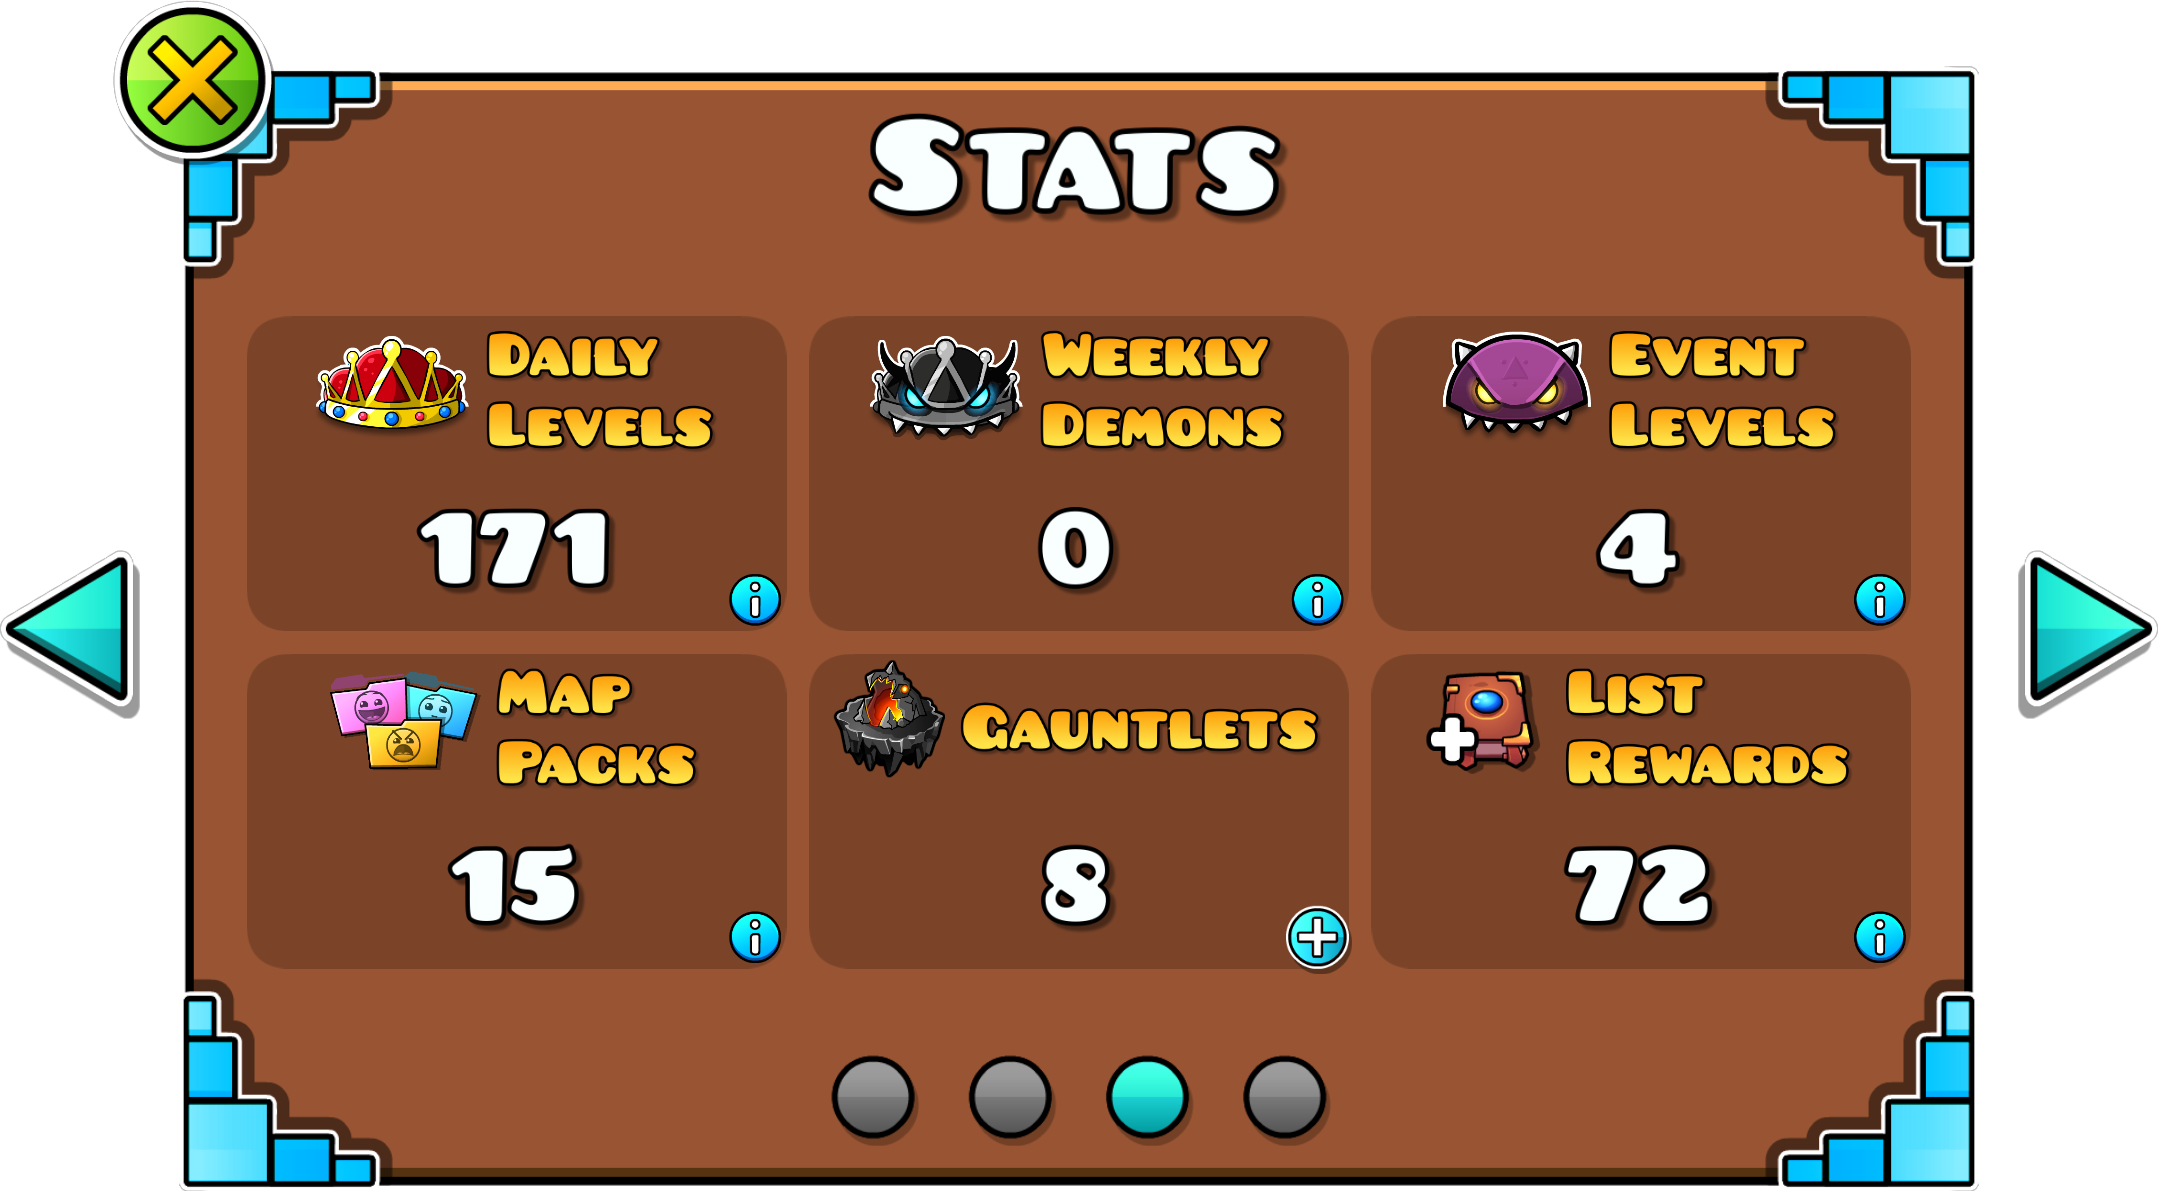
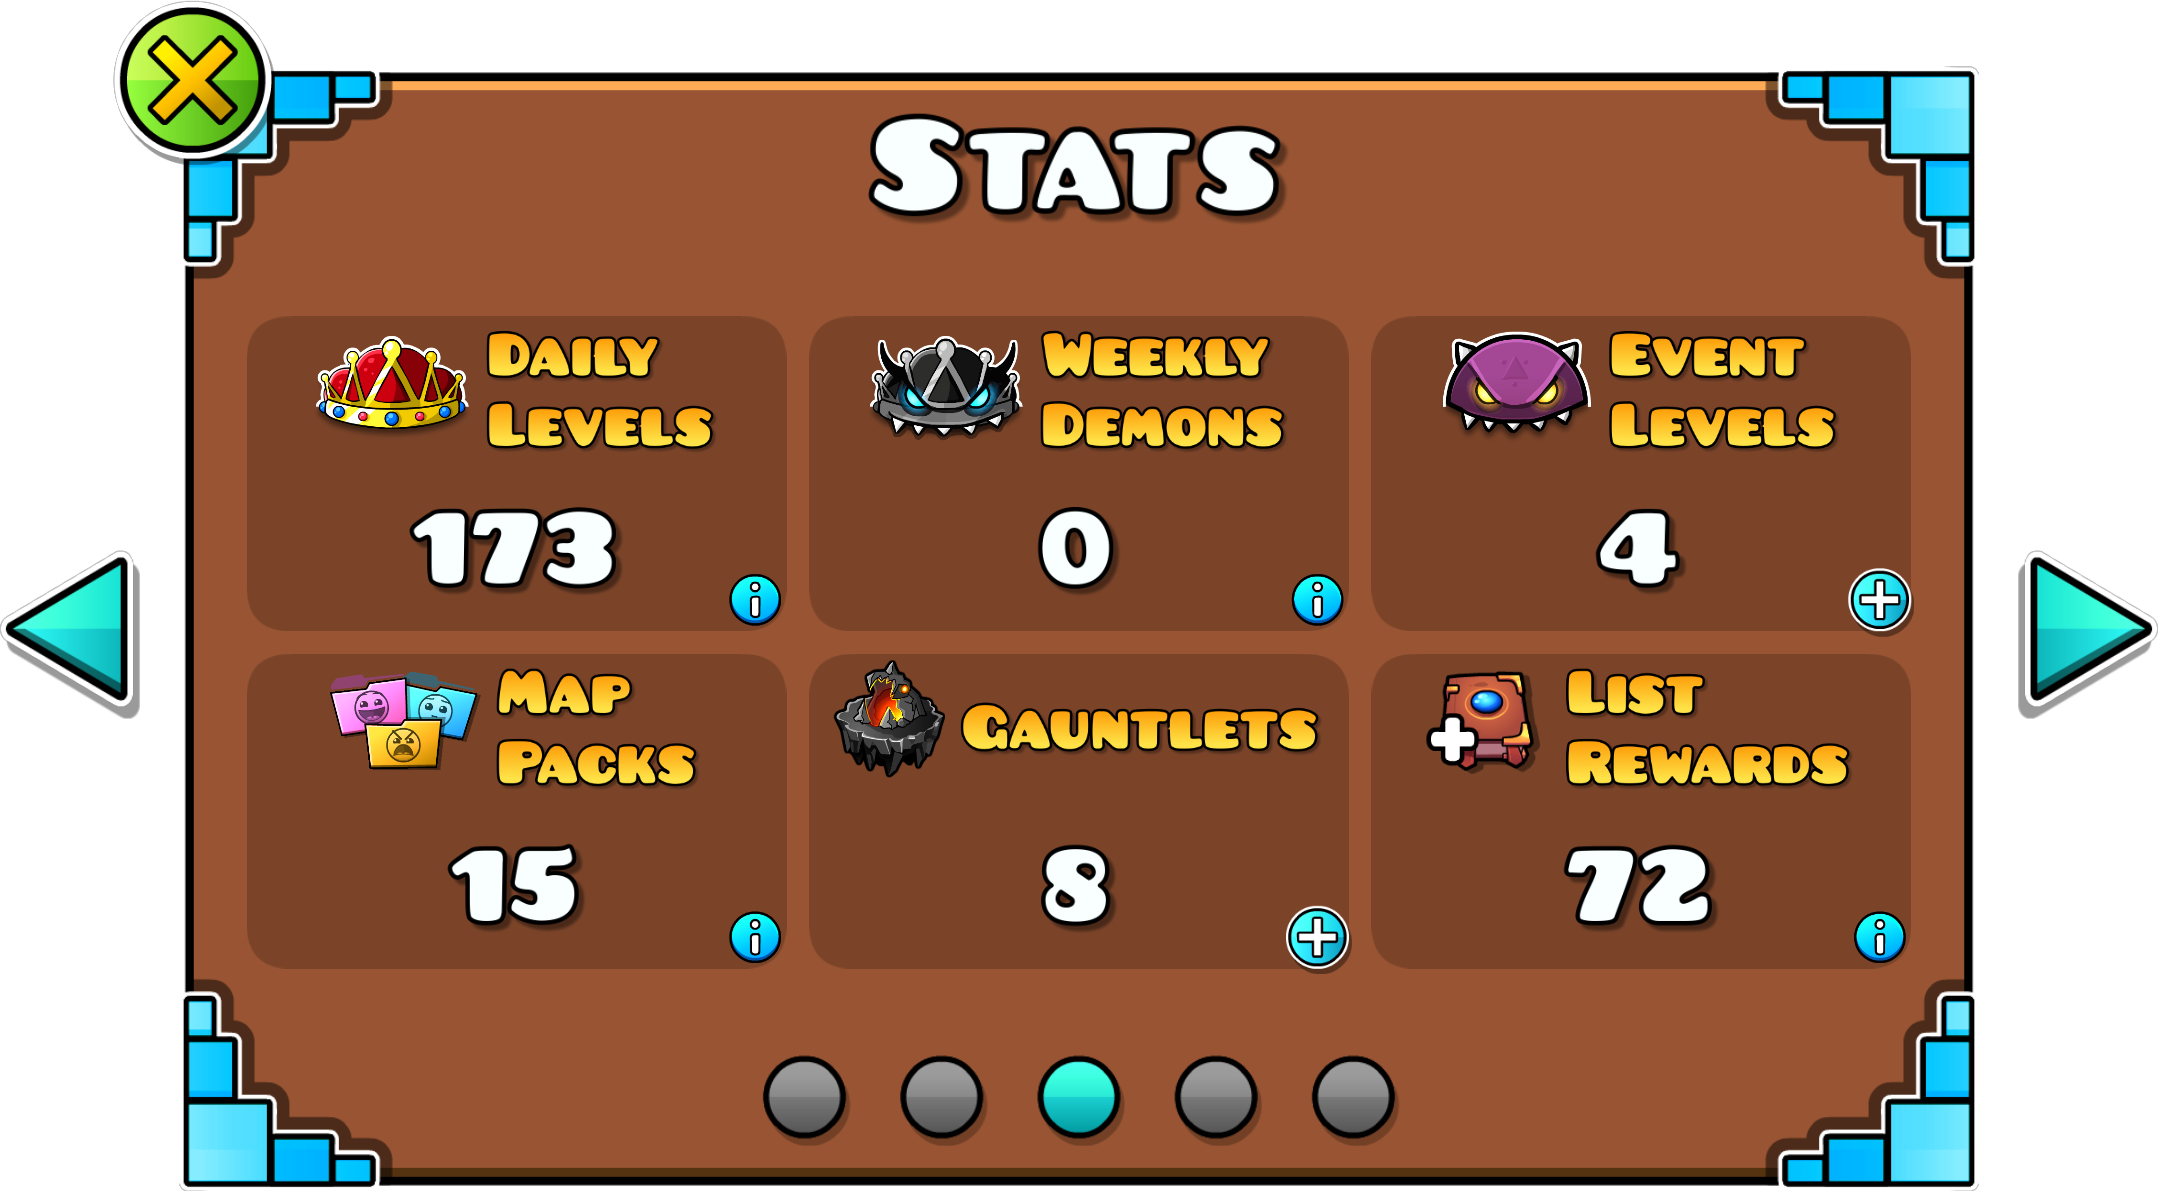
New extra stat and other changes

Changed region(s): [[0.3415, 0.8699, 0.652, 0.9631], [0.1863, 0.4039, 0.3105, 0.4971], [0.8383, 0.466, 0.9004, 0.5281]]

diff --git a/src/main.cpp b/src/main.cpp
@@ -125,15 +125,29 @@ public:
 				otherLevels, otherCount
 			));
 		} else if (stat == "12") { // User Coins
-			statDesc.append(fmt::format("\n\n<co>Unverified Coins:</c> {}", GameStatsManager::sharedState()->m_pendingUserCoins->count()));
+			statDesc.append(fmt::format("\n\n<co>Unverified Coins:</c> {}", addCommas(GameStatsManager::sharedState()->m_pendingUserCoins->count())));
 		} else if (stat == "13") { // Diamonds
-			statDesc.append(fmt::format("\n\n<cf>Diamond Shards:</c> {}", GameStatsManager::sharedState()->getStat("29")));
+			statDesc.append(fmt::format("\n\n<cf>Diamond Shards:</c> {}", addCommas(GameStatsManager::sharedState()->getStat("29"))));
 		} else if (stat == "22") { // Orbs
-			statDesc.append(fmt::format("\n\n<cl>Current Orbs:</c> {}", GameStatsManager::sharedState()->getStat("14")));
+			statDesc.append(fmt::format("\n\n<cl>Current Orbs:</c> {}", addCommas(GameStatsManager::sharedState()->getStat("14"))));
 		} else if (stat == "40") { // Gauntlets
 			auto gauntletLevels = GameLevelManager::sharedState()->getCompletedGauntletLevels();
 			auto gauntletDemons = GameLevelManager::sharedState()->getCompletedGauntletDemons();
 			statDesc.append(fmt::format("\n\n<cj>Completed Levels:</c> {}\n<cr>Completed Demons:</c> {}", gauntletLevels, gauntletDemons));
+		} else if (stat == "event") {
+			statDesc.append(fmt::format(
+				"\n\n<cc>Auto (1*):</c> {}     <cj>Easy (2*):</c> {}\n<cg>Normal (3*):</c> {}     <cy>Hard (4*):</c> {}\n<cs>Hard (5*):</c> {}     <co>Harder (6*):</c> {}\n<cr>Harder (7*):</c> {}     <cp>Insane (8*):</c> {}\n<ca>Insane (9*):</c> {}     <c>_Demon (10*):</c> {}",
+				GameLevelManager::sharedState()->getCompletedEventLevels(1, 1),
+				GameLevelManager::sharedState()->getCompletedEventLevels(2, 2),
+				GameLevelManager::sharedState()->getCompletedEventLevels(3, 3),
+				GameLevelManager::sharedState()->getCompletedEventLevels(4, 4),
+				GameLevelManager::sharedState()->getCompletedEventLevels(5, 5),
+				GameLevelManager::sharedState()->getCompletedEventLevels(6, 6),
+				GameLevelManager::sharedState()->getCompletedEventLevels(7, 7),
+				GameLevelManager::sharedState()->getCompletedEventLevels(8, 8),
+				GameLevelManager::sharedState()->getCompletedEventLevels(9, 9),
+				GameLevelManager::sharedState()->getCompletedEventLevels(10, 10)
+			));
 		} else if (stat == "icon") {
 			auto maxAmount = 0;
 			auto cubeIcons = 0;
@@ -362,7 +376,7 @@ public:
 					}
 				}
 			}
-			statDesc.append(fmt::format("\n\n<cl>10 Diamonds:</c> {}\n<cj>15 Diamonds:</c> {}\n<cf>20 Diamonds:</c> {}", quests10, quests15, quests20));
+			statDesc.append(fmt::format("\n\n<cl>10 Diamonds:</c> {}\n<cj>15 Diamonds:</c> {}\n<cf>20 Diamonds:</c> {}", addCommas(quests10), addCommas(quests15), addCommas(quests20)));
 		}
 		FLAlertLayer::create(statInfo[0].c_str(), statDesc.c_str(), "OK")->show();
 	}
@@ -395,13 +409,13 @@ public:
 		{
 			{"15", "Daily\nLevels", 0.6f, "gj_dailyCrown_001.png", 0.425f},
 			{"weekly", "Weekly\nDemons", 0.6f, "gj_weeklyCrown_001.png", 0.425f},
-			{"event", "Event\nLevels", 0.6f, "gj_eventCrown_001.png", 0.425f},
+			{"event", "Event\nLevels", 0.6f, "gj_eventCrown_001.png", 0.425f, true},
 			{"7", "Map\nPacks", 0.6f, "mapPacks.png"_spr, 0.425f},
 			{"40", "Gauntlets", 0.7f, "gauntlets.png"_spr, 0.425f, true},
 			{"41", "List\nRewards", 0.6f, "GJ_listAddBtn_001.png", 0.8f}
 		},
 		{
-			{"icon", "Icons", 0.7f, "particle_17_001.png", 1.3f, true},
+			{"icon", "Icons", 0.7f, "icons.png"_spr, 0.75f, true},
 			{"color", "Colors", 0.7f, "GJ_paintBtn_001.png", 0.75f, true},
 			{"special", "Special\nItems", 0.6f, "player_special_02_001.png", 0.8f, true},
 			{"bought", "Bought\nItems", 0.6f, "storeItemIcon_001.png", 1.2f, true}

diff --git a/about.md b/about.md
@@ -28,6 +28,8 @@ To access some extra stats you need to press the <cg>+ Button</c> next to them!
 - Daily Levels
 - <cj>Weekly Demons</c>
 - <cj>Event Levels</c>
+	- <cj>Auto (1*), Easy (2*), Normal (3*), Hard (4*), Hard (5*)</c>
+	- <cj>Harder (6*), Harder (7*), Insane (8*), Insane (9*), Demon (10*)</c>
 - Map Packs
 - Gauntlets
 	- <cj>Completed Levels, Completed Demons</c>
@@ -56,7 +58,8 @@ This is my first mod, so some feedback would be nice!
 
 ## <co>Credits</c>
 - [Achievements Reimagined](mod:therisinglegend.achievements_reimagined) (By TheRisingLegend) - Inspiration for this mod, you should check it out!
-- [BetterInfo](mod:cvolton.betterinfo) (By cvolton) - Inspiration for quests stat, you should also check it out!
+- [BetterInfo](mod:cvolton.betterinfo) (By cvolton) - Inspiration for Quests stat, you should also check it out!
+- [Shopping List](mod:ml5.shopping-list) (By ML500) - Inspiration for Bought Items stat, you should also check it out!
 - [Geometry Dash Documentation](https://wyliemaster.github.io/gddocs/#/) (By WylieMaster) - Helped with GS Values and more!
 
 ## <cp>Previews</c>
@@ -71,3 +74,5 @@ This is my first mod, so some feedback would be nice!
 ![Preview 4](mateufil.improved-stats/preview4.png?width=299)
 
 ![Preview 5](mateufil.improved-stats/preview5.png?width=299)
+
+![Preview 6](mateufil.improved-stats/preview6.png?width=299)

diff --git a/changelog.md b/changelog.md
@@ -1,3 +1,11 @@
+# <cl>v1.1.1</c>
+- Added extra stats to Event Levels:
+	- Auto (1*), Easy (2*), Normal (3*), Hard (4*), Hard (5*)
+	- Harder (6*), Harder (7*), Insane (8*), Insane (9*), Demon (10*)
+- Extra stats now display with commas
+- Updated Icons stat icon
+- Updated the mod's previews and credits
+
 # <cf>v1.1.0</c>
 - Added Icons stat with extra stats:
 	- Cubes, Ships, Balls, UFOs, Waves
@@ -12,13 +20,13 @@
 - Cleaned up the mod's description and changelog
 
 # <cj>v1.0.1</c>
-- Added stats to Official Levels:
+- Added extra stats to Official Levels:
 	- Main, Tower, Meltdown, World, SubZero, Other
-- Added stat to User Coins:
+- Added extra stat to User Coins:
 	- Unverified Coins
-- Added stat to Collected Diamonds:
+- Added extra stat to Collected Diamonds:
 	- Diamond Shards
-- Added stat to Collected Orbs:
+- Added extra stat to Collected Orbs:
 	- Current Orbs
 
 # <cl>v1.0.0</c>
